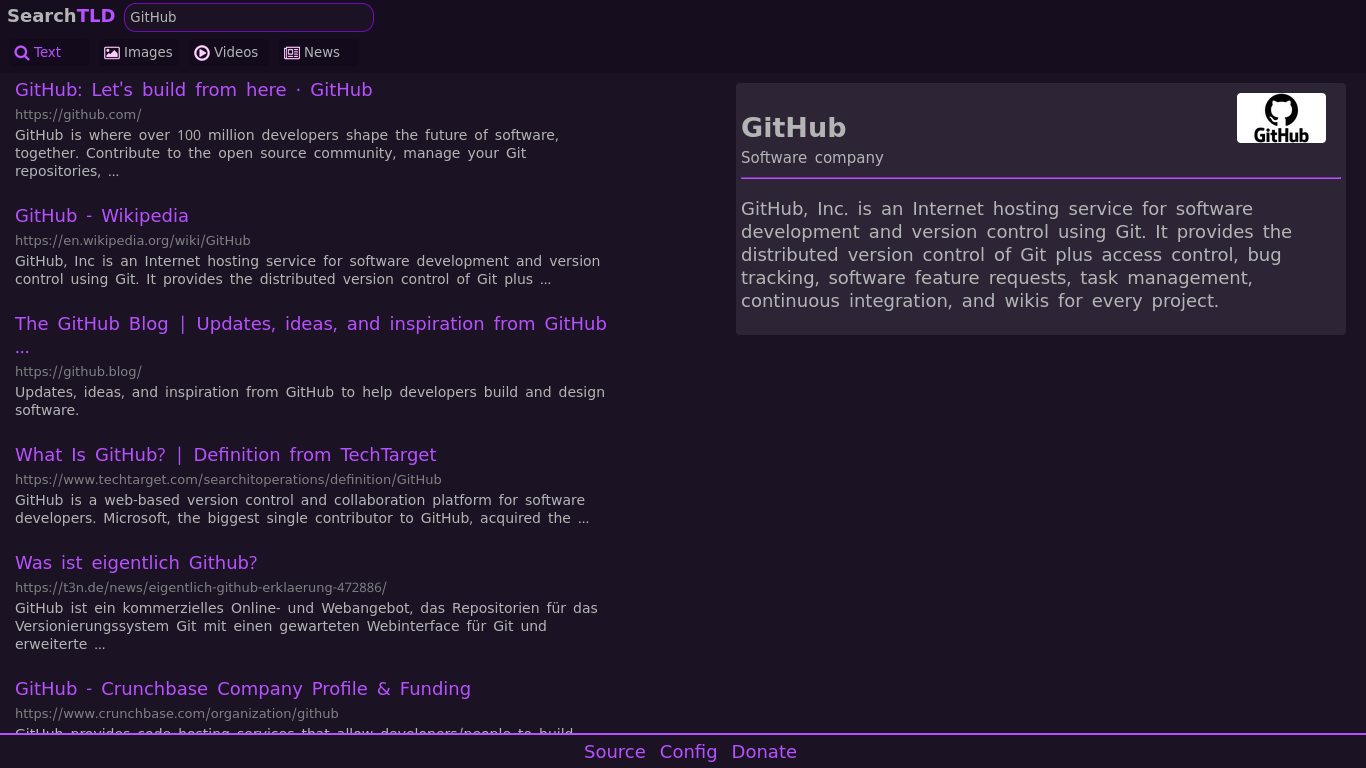
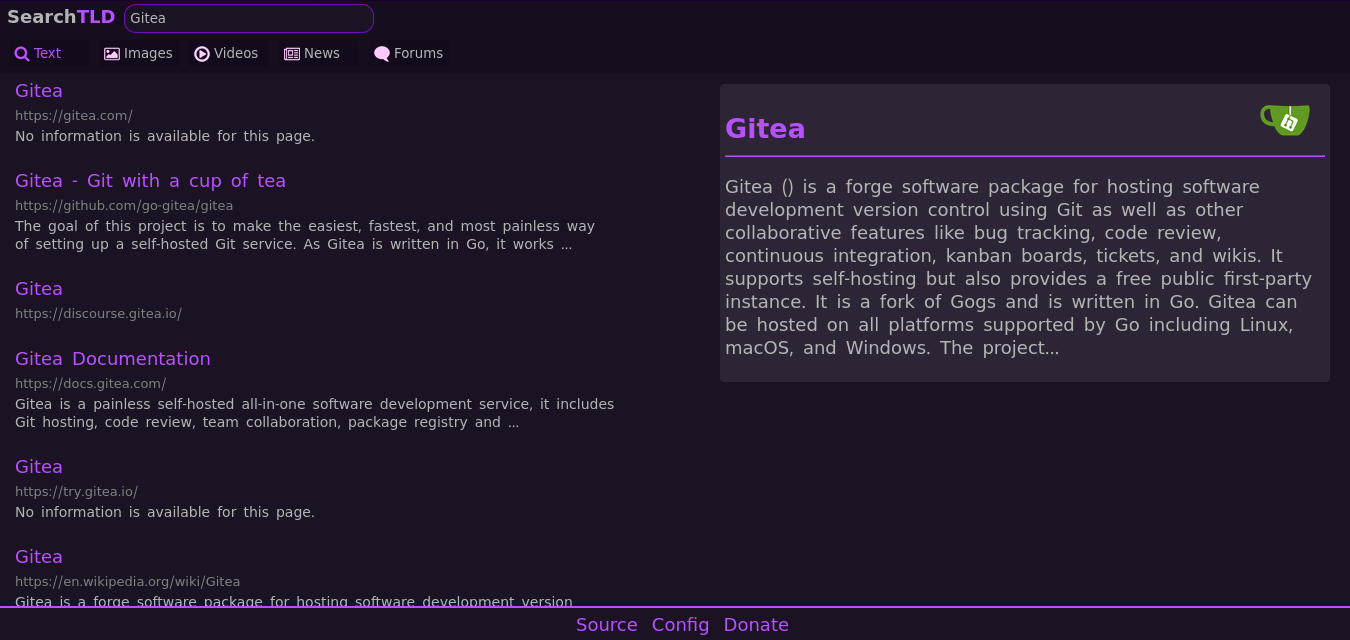
Wikipedia API for infoboxes, StackExchange search

diff --git a/main/static/css/styles.css b/main/static/css/styles.css
@@ -291,8 +291,8 @@ hr {
 	}
 
 	.msearch button {
-		font-size: 16px;
-		width: 120px;
+		font-size: 14px;
+		width: 100px;
 		margin-top: 4%;
 	}
 }

diff --git a/main/search/forums/stackexchange.php b/main/search/forums/stackexchange.php
@@ -1,0 +1,55 @@
+<?php
+	function getstHTML($query) {
+		$url = "https://stackexchange.com/search?q=" . urlencode($query);
+
+		$ch = curl_init($url);
+		curl_setopt($ch, CURLOPT_USERAGENT, 'Mozilla/5.0 (Windows NT 10.0; Win64; x64) AppleWebKit/537.36 (KHTML, like Gecko) Chrome/112.0.0.0 Safari/537.36');
+		curl_setopt($ch, CURLOPT_RETURNTRANSFER, true);
+		curl_setopt($ch, CURLOPT_MAXREDIRS, 3);
+		curl_setopt($ch, CURLOPT_SSL_VERIFYPEER, false);
+		curl_setopt($ch, CURLOPT_FOLLOWLOCATION, true);
+		
+		$response = curl_exec($ch);
+
+		curl_close($ch);
+		return $response;
+	}
+
+	function send_stack_response($response) {
+		if (!empty($response)) {
+			$dom = new DOMDocument();
+			@$dom->loadHTML($response);
+			$xpath = new DOMXPath($dom);
+
+            $results = $xpath->query('//div[contains(@class, "summary")]');
+            $uniqueLinks = [];
+            $num = 0;
+			if ($results) {
+				foreach ($results as $result) {
+					$link = $xpath->query('.//div[contains(@class, "result-link")]//span//a', $result)->item(0);
+					@$title = htmlspecialchars($link->textContent,ENT_QUOTES,'UTF-8');
+                    if ($link) { // Required for some reason..?
+						@$link = $link->getAttribute('href');
+					}
+                    $date = $xpath->query('.//span[contains(@class, "relativetime")]', $result)->item(0);
+                    @$date = htmlspecialchars($date->textContent);
+                    $desc = $xpath->query('.//div[contains(@class, "excerpt")]', $result)->item(0);
+                    @$desc = htmlspecialchars($desc->textContent);
+
+                    if (!in_array($link, $uniqueLinks) && !($num >= 3)) {
+					    echo "<div class=\"a-result\">";
+                        echo "  <a href=\"$link\" class=\"mlink\"><img src=\"/static/img/stackex.png\" class=\"flogo\" />StackExchange</a><br/>";
+				    	echo "	<a href=\"$link\" class=\"title\">$title</a><br>";
+                        echo "  <p class=\"mlink\">$date</p>";
+                        echo "  <p class=\"description\">$desc</p>";
+				    	echo "</div>";
+                        $uniqueLinks[] = $link;
+                        $num++;
+                    }
+				}
+			} else {
+				echo "<p class=\"dym\">No results found.</p>";
+			}
+		}
+	}
+?>

diff --git a/main/search/infobox/wikipedia.php b/main/search/infobox/wikipedia.php
@@ -1,0 +1,56 @@
+<?php
+    function send_infobox($query) {
+        if (isset($_COOKIE["lang"])) {
+			$lang = trim(htmlspecialchars($_COOKIE["lang"]));
+		} else {
+			$lang = "en";
+		}
+
+        $url = "$lang.wikipedia.org/w/api.php?action=query&exintro&explaintext&format=json&pithumbsize=500&prop=extracts|pageimages&redirects=1&titles=" . urlencode($query);
+        
+        $ch = curl_init($url);
+        curl_setopt($ch, CURLOPT_USERAGENT, 'Mozilla/5.0 (Windows NT 10.0; Win64; x64) AppleWebKit/537.36 (KHTML, like Gecko) Chrome/112.0.0.0 Safari/537.36');
+		curl_setopt($ch, CURLOPT_RETURNTRANSFER, true);
+		curl_setopt($ch, CURLOPT_MAXREDIRS, 3);
+		curl_setopt($ch, CURLOPT_SSL_VERIFYPEER, false);
+		curl_setopt($ch, CURLOPT_FOLLOWLOCATION, true);
+
+        $response = curl_exec($ch);
+        curl_close($ch);
+
+        $data = json_decode($response, true);
+
+        $pages = $data['query']['pages'];
+
+        if (isset($data)) {
+            foreach($pages as $page) {
+                if (isset($page['pageid']) && $page['pageid'] > 0) {
+                    $title = $page['title'];
+
+                    if (isset($page['thumbnail'])) {
+                        $thumbnailUrl = $page['thumbnail']['source'];
+                    }
+    
+                    $description = substr($page['extract'], 0, 450);
+                    $description = rtrim($description, " .,;:-");
+                    if (strlen($page['extract']) > 450) {
+                        $description .= "...";
+                    }
+                    
+                    echo "<div class=\"infobox\">";
+                    echo "<div class=\"txtholder\">";
+                    echo "<h2 class=\"infotitle\"><a href=\"https://wikipedia.org/wiki/$query\">" . $title . "</a></h2>";
+                    echo "</div>";
+                    echo "<div class=\"simage-container\">";
+                    echo "	<img src=\"$thumbnailUrl\">";
+                    echo "</div>";
+                    echo "<hr>";
+                    echo "<p class=\"infodesc\">" . $description . "</p>";
+                    echo "</div>";
+                }
+            }
+        }
+    
+    }
+?>
+

diff --git a/main/search/text/google.php b/main/search/text/google.php
@@ -96,66 +96,6 @@
 		}
 	}
 
-	function send_infobox($response) {
-		if ($response) {
-			$dom = new DOMDocument();
-			@$dom->loadHTML($response);
-			$xpath = new DOMXPath($dom);
-
-			$result = $xpath->query('//div[contains(@class, "I6TXqe")]');
-			if ($result) {
-
-				$title = $xpath->query('.//h2', $result->item(0))->item(0);
-				@$title = $title->textContent;
-				$desc = $xpath->query('.//div[contains(@class, "kno-rdesc")]//span', $result->item(0))->item(0);
-				@$desc = $desc->textContent;
-
-				if (strpos($title, $desc) === false) {
-					$nextH2 = $title->nextSibling;
-					while ($nextH2 !== null && $nextH2->nodeName !== "h2") {
-						$nextH2 = $nextH2->nextSibling;
-					}
-					
-					if ($nextH2 !== null) {
-						$title = $nextH2->textContent;
-					} else {
-						$spanTitle = $xpath->query('.//span[contains(@class, "yKMVIe")]', $result->item(0))->item(0);
-						if ($spanTitle !== null) {
-							$title = $spanTitle->textContent;
-						}
-					}
-				}
-
-				if ($title !== null && $desc !== null) {	
-					$smalltitle = $xpath->query('.//div[contains(@class, "wwUB2c")]//span', $result->item(0))->item(0);
-					@$smalltitle = $smalltitle->textContent;
-					
-					if ($desc !== Null) {	
-						if (strpos($title, $desc) !== false) {
-							echo "<div class=\"infobox\">";
-							echo "<div class=\"txtholder\">";
-							echo "<h2 class=\"infotitle\">" . $title . "</h2>";
-							echo "<span class=\"minititle\">" . $smalltitle . "</span>";
-							echo "</div>";
-							if ($title !== "GNU") {
-								require "search/images/qwant.php";
-								$iresponse = getiHTML($title, 0);
-								send_single_image_response($iresponse);
-							} else {
-								echo "<div class=\"simage-container\">";
-								echo "	<img src=\"/static/img/gnu.png\">";
-								echo "</div>";
-							}
-							echo "<hr>";
-							echo "<p class=\"infodesc\">" . $desc . "</p>";
-							echo "</div>";
-						}
-					}
-				}
-			}
-		}
-	}
-
 	function send_correction($response) {
 		if ($response) {
 			$dom = new DOMDocument();

diff --git a/main/search/forums/reddit.php b/main/search/forums/reddit.php
@@ -23,6 +23,7 @@
 
             $results = $xpath->query('//div[contains(@class, "_2mO8vClBdPxiJ30y_C6od2")]//div//div');
             $uniqueLinks = [];
+			$num = 0;
 			if ($results) {
 				foreach ($results as $result) {
 					$title = $xpath->query('.//h3[contains(@class, "_eYtD2XCVieq6emjKBH3m")]', $result)->item(0);
@@ -42,13 +43,14 @@
                         $sublink = "https://reddit.com/" . $sub;
                     }
 
-                    if ($title && strpos($link, "reddit.com") !== false && !in_array($link, $uniqueLinks)) {
+                    if ($title && strpos($link, "reddit.com") !== false && !in_array($link, $uniqueLinks) && !($num >= 7)) {
 					    echo "<div class=\"a-result\">";
                         echo "  <a href=\"$link\" class=\"mlink\"><img src=\"/static/img/reddit.png\" class=\"flogo\" />Reddit</a><br/>";
 				    	echo "	<a href=\"$link\" class=\"title\">$title</a><br>";
                         echo "  <a href=\"$sublink\" class=\"mlink\">$sub</a>";
 				    	echo "</div>";
                         $uniqueLinks[] = $link;
+						$num++;
                     }
 				}
 			} else {

diff --git a/main/search.php b/main/search.php
@@ -2,6 +2,7 @@
 <?php 
 	require "other/header.php"; 
 	require "search/text/google.php";
+	require "search/infobox/wikipedia.php";
 	
 	$query = htmlspecialchars($_REQUEST["q"],ENT_QUOTES,'UTF-8');
 	$page = htmlspecialchars($_REQUEST["pg"],ENT_QUOTES,'UTF-8');
@@ -43,7 +44,7 @@
 		</div>
 		<?php 
 			if ($type == 0) {
-				send_infobox($response);
+				send_infobox($query);
 			}
 		?>
 		<div class="results">
@@ -95,9 +96,13 @@
 						break;
 					case 4:
 						require "search/forums/reddit.php";
+						require "search/forums/stackexchange.php";
 						$response = getrHTML($query);
 						send_red_response($response);
-						//echo $response;
+
+						$response = getstHTML($query);
+						send_stack_response($response);
+						echo $response;
 						break;
 					default:
 						send_text_response($response);
